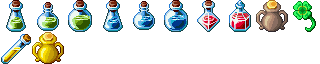
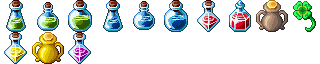
Adding bunch of items

Changed region(s): [[0.0, 0.5, 0.0938, 1.0], [0.1875, 0.5, 0.2812, 1.0]]

diff --git a/shared/Equipments.ts b/shared/Equipments.ts
@@ -105,10 +105,10 @@ equipments[8] = new BaseEquipment({
     name: "Hardened gloves",
     description: "",
     frame: 110,
-    effects: [{stat: Stat.DEF, value: 3}],
+    effects: [{stat: Stat.DEF, value: 10}],
     slot: EquipmentSlot.GLOVES,
-    effort: 3,
-    minLevel: 1,
+    effort: 10,
+    minLevel: 5,
 });
 
 equipments[9] = new BaseEquipment({
@@ -143,6 +143,76 @@ equipments[11] = new BaseEquipment({
     effort: 11,
     minLevel: 5,
     classes: [Class.WARRIOR],
+});
+
+equipments[12] = new BaseEquipment({
+    id: 12,
+    name: "Leather armor",
+    description: "",
+    frame: 91,
+    effects: [{stat: Stat.DEF, value: 16}],
+    slot: EquipmentSlot.ARMOR,
+    effort: 12,
+    minLevel: 5,
+    classes: [Class.WARRIOR],
+});
+
+equipments[13] = new BaseEquipment({
+    id: 13,
+    name: "Armored gloves",
+    description: "",
+    frame: 111,
+    effects: [{stat: Stat.DEF, value: 18}],
+    slot: EquipmentSlot.GLOVES,
+    effort: 16,
+    minLevel: 10,
+    classes: [Class.WARRIOR],
+});
+
+equipments[14] = new BaseEquipment({
+    id: 14,
+    name: "Armored boots",
+    description: "",
+    frame: 131,
+    effects: [{stat: Stat.DEF, value: 11}],
+    slot: EquipmentSlot.BOOTS,
+    effort: 10,
+    minLevel: 5,
+    classes: [Class.WARRIOR],
+});
+
+equipments[15] = new BaseEquipment({
+    id: 15,
+    name: "Light gloves",
+    description: "",
+    frame: 112,
+    effects: [{stat: Stat.DEF, value: 3}],
+    slot: EquipmentSlot.GLOVES,
+    effort: 3,
+    minLevel: 1,
+});
+
+equipments[16] = new BaseEquipment({
+    id: 16,
+    name: "Jade necklace",
+    description: "",
+    frame: 51,
+    effects: [{stat: Stat.MP, value: 20}],
+    slot: EquipmentSlot.NECKLACE,
+    effort: 6,
+    minLevel: 1,
+    classes: [Class.BLACK_MAGE, Class.WHITE_MAGE],
+});
+
+equipments[17] = new BaseEquipment({
+    id: 17,
+    name: "Golden ring",
+    description: "",
+    frame: 41,
+    effects: [{stat: Stat.HP, value: 20}],
+    slot: EquipmentSlot.LEFT_RING,
+    effort: 4,
+    minLevel: 1,
 });
 
 export function getEquipmentById(id:number): BaseEquipment | undefined {

diff --git a/shared/Items.ts b/shared/Items.ts
@@ -164,6 +164,20 @@ items[11] = new BaseItem({
     effort: 4.5,
 });
 
+items[12] = new BaseItem({
+    id: 12,
+    name: "Bocca",
+    description: "Cures mute",
+    frame: 12,
+    animation: "potion_heal",
+    sfx: "healing",
+    cooldown: 3,
+    target: Target.SELF,
+    effects: [],
+    statusRemovals: [StatusEffect.MUTE],
+    effort: 1.5,
+});
+
 export function getConsumableById(id: number): BaseItem | undefined {
     return items.find(item => item.id === id);
 }

diff --git a/shared/Spells.ts b/shared/Spells.ts
@@ -245,7 +245,7 @@ spells.push(new BaseSpell({
 spells.push(new BaseSpell({
     id: 11,
     name: "Silence",
-    description: "Make the target unable to cast spells for 3 minutes",
+    description: "Make the target mute, unable to cast spells for 3 minutes",
     frame: 4,
     vfx: "mute",
     sfx: "mute",
